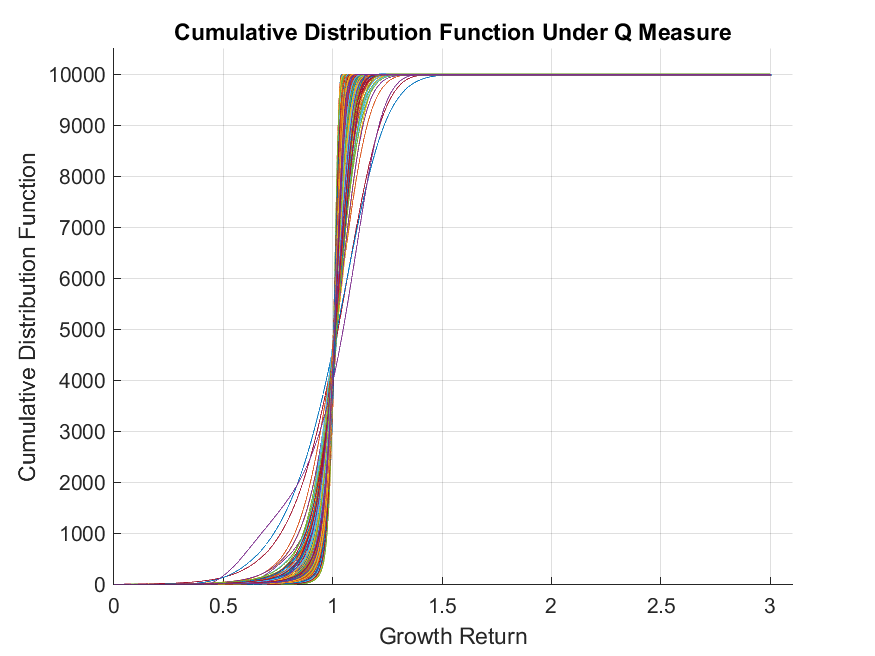
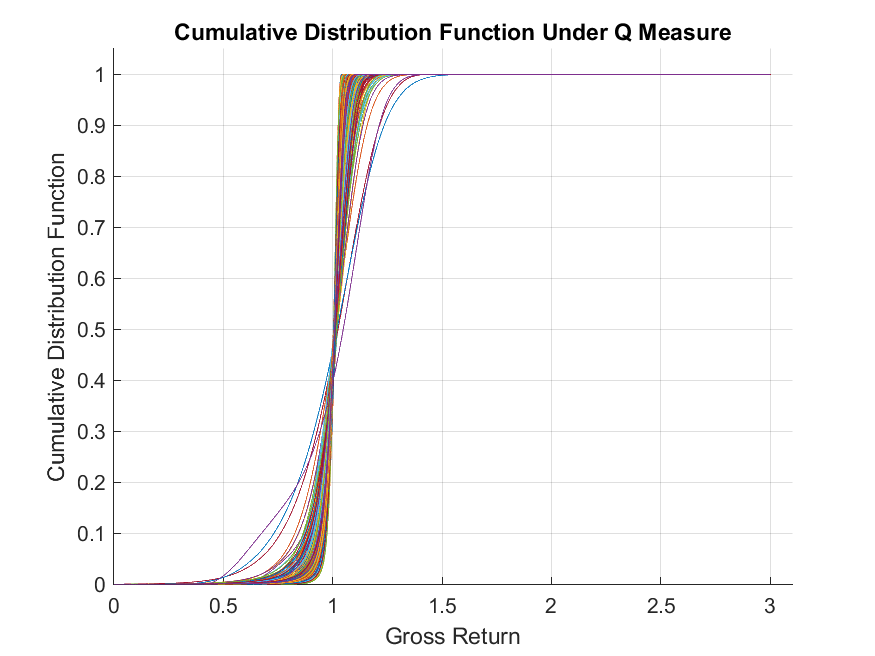
Fixed CDF calculation error

diff --git a/06  物理測度機率密度函數/Procedure__Plot_Density.m b/06  物理測度機率密度函數/Procedure__Plot_Density.m
@@ -55,8 +55,10 @@ grid on;
 hold off;
 
 title('Probability Density Function Under Q Measure');
-xlabel('Growth Return');
+xlabel('Gross Return');
 ylabel('Probability Density Function');
+    
+xlim([0, 3.1]);
 
 filename = 'Q_Measure_PDF.png';
 saveas(gcf, fullfile(Path_Output, filename));
@@ -84,8 +86,10 @@ for idx_b = 1:length(b_values)
     hold off;
 
     title(['b = ' num2str(b)]);
-    xlabel('Growth Return');
+    xlabel('Gross Return');
     ylabel('Probability Density Function');
+
+    xlim([0, 3.1]);
 
 end
 
@@ -107,7 +111,7 @@ for t = 1:length(months)
     x_values = Smooth_AllR{1, months{t}};
     
     pdf_values = Smooth_AllR_RND{1, months{t}};
-    cdf_values = cumsum(pdf_values);
+    cdf_values = cumsum(pdf_values) / sum(pdf_values);
     
     plot(x_values, cdf_values);
 end
@@ -116,10 +120,10 @@ grid on;
 hold off;
 
 title('Cumulative Distribution Function Under Q Measure');
-xlabel('Growth Return');
+xlabel('Gross Return');
 ylabel('Cumulative Distribution Function');
 xlim([0, 3.1]);
-ylim([0, 10500]);
+ylim([0, 1.05]);
 
 filename = 'Q_Measure_CDF.png';
 saveas(gcf, fullfile(Path_Output, filename));
@@ -142,7 +146,7 @@ for idx_b = 1:length(b_values)
         x_values = Smooth_AllR{1, months{t}};
         
         pdf_values = P_Table{1, months{t}};
-        cdf_values = cumsum(pdf_values);
+        cdf_values = cumsum(pdf_values) / sum(pdf_values);
 
         plot(x_values, cdf_values);
     end
@@ -151,11 +155,11 @@ for idx_b = 1:length(b_values)
     hold off;
 
     title(['b = ' num2str(b)]);
-    xlabel('Growth Return');
+    xlabel('Gross Return');
     ylabel('Cumulative Distribution Function');
 
     xlim([0, 3.1]);
-    ylim([0, 10500]);
+    ylim([0, 1.05]);
 
 end
 
